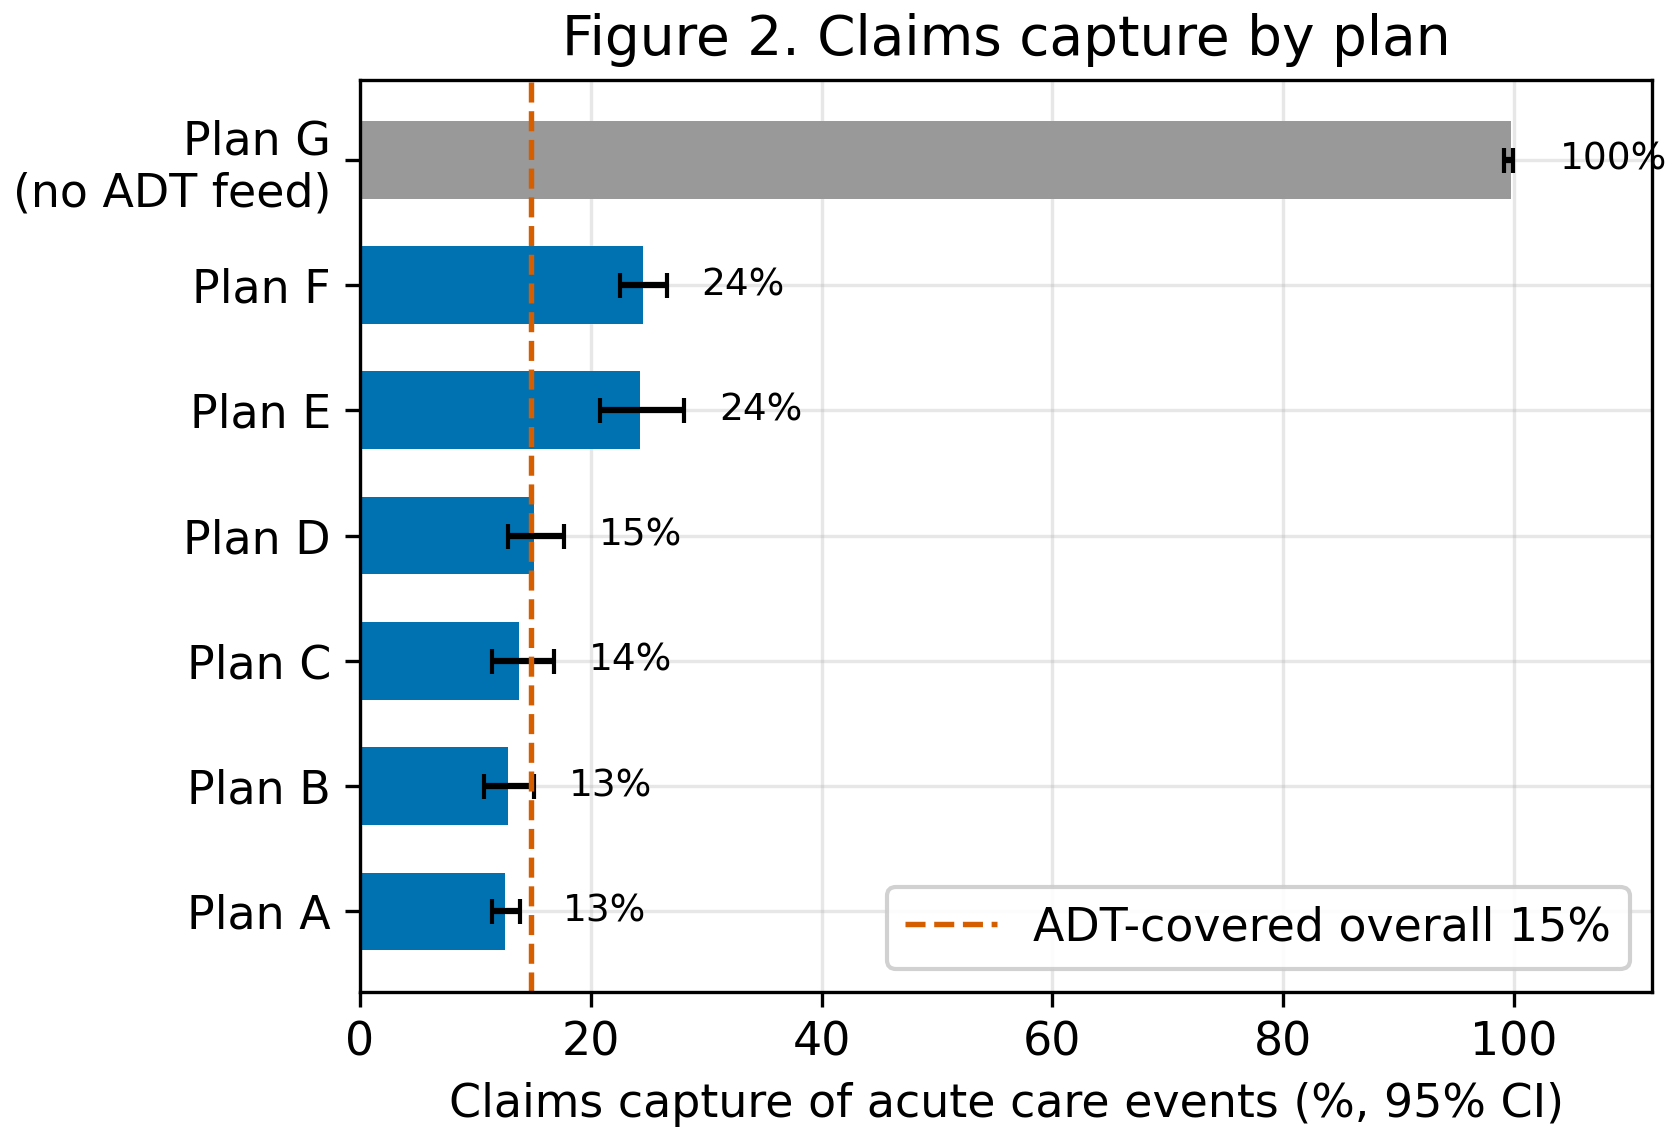
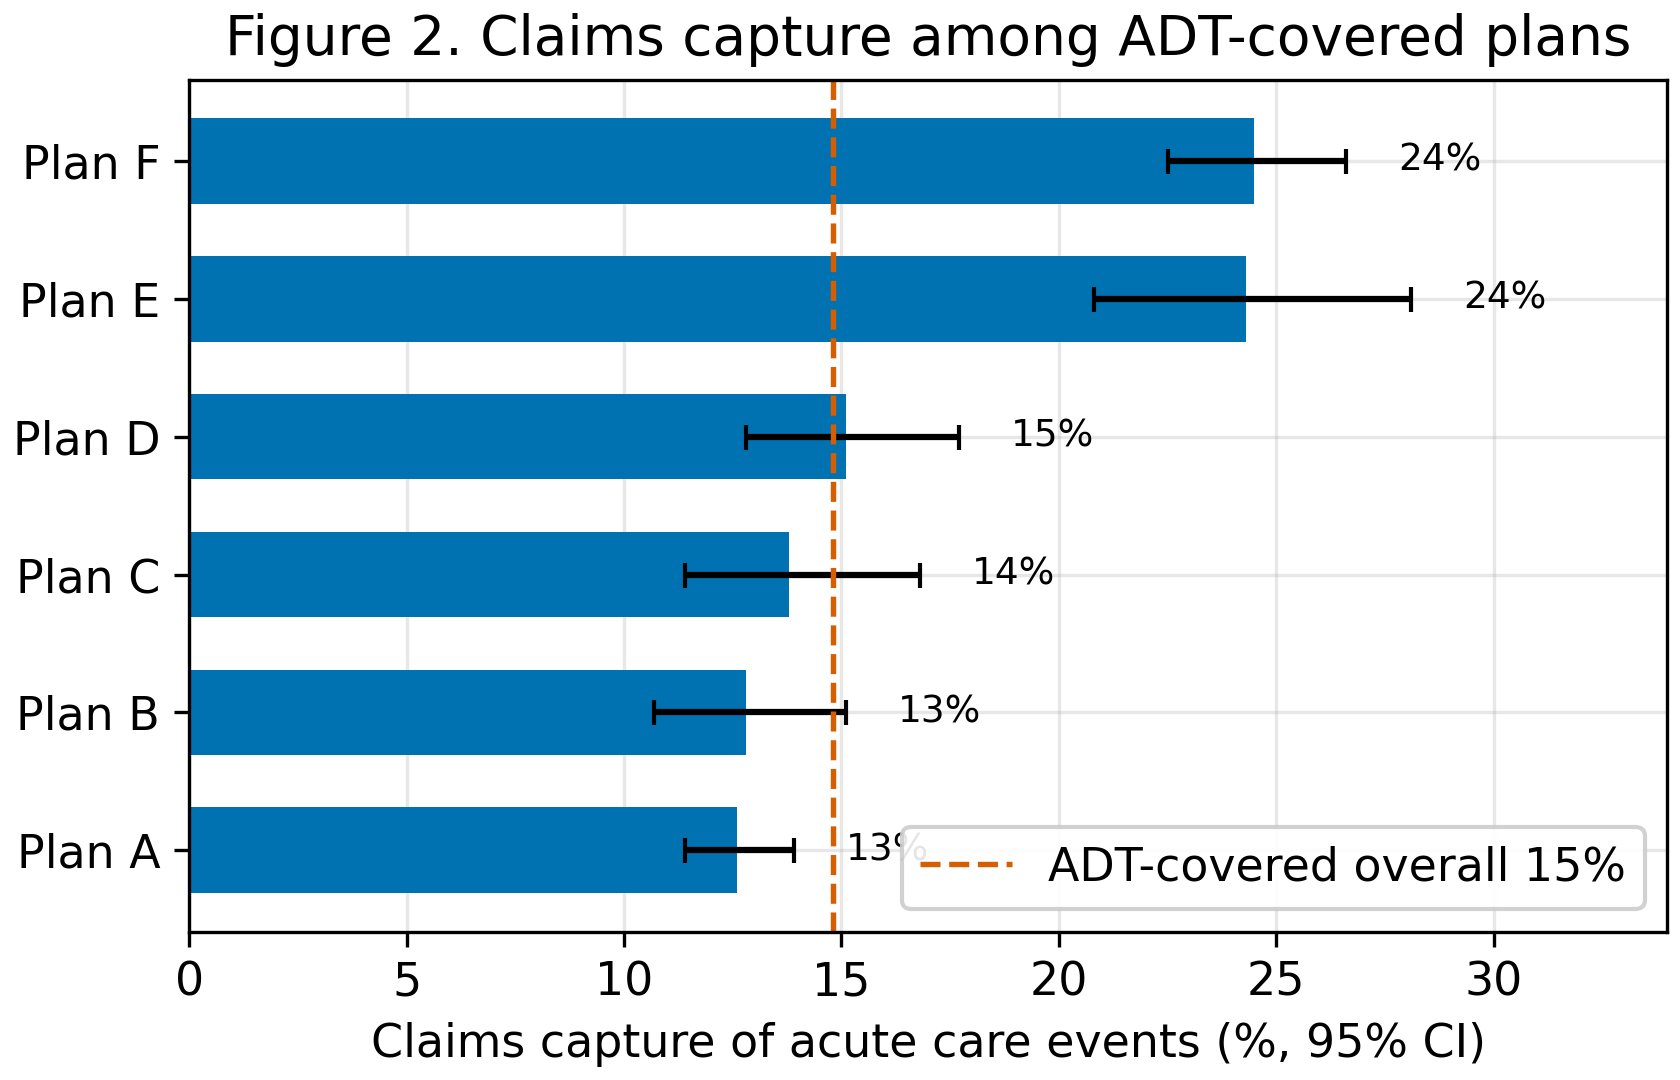
Add consistent targeting ladder + label-side methods; single-split status-quo (AUROC 0.620/recall 0.163); rank-preserving PU rescale; drop Plan G from capture figure

diff --git a/src/ladder_labelside.py b/src/ladder_labelside.py
@@ -1,0 +1,88 @@
+import warnings, json, numpy as np, pandas as pd
+warnings.filterwarnings("ignore")
+import torch, torch.nn as nn
+from lightgbm import LGBMClassifier, LGBMRegressor
+from sklearn.linear_model import LogisticRegression
+from sklearn.model_selection import train_test_split
+from sklearn.metrics import roc_auc_score, confusion_matrix, f1_score
+# identical setup to ladder_ci.py
+rng=np.random.default_rng(20260713); torch.manual_seed(1); np.random.seed(1)
+df=pd.read_parquet('dataset_2025-07-01.parquet')
+for c in ['n_office','n_urgent','n_ed','n_inpat','n_outp','n_total','n_fac','n_prov']: df[c]=df[c].fillna(0)
+df['no_claims']=df['claims_lag_days'].isna().astype(int); df['claims_lag_days']=df['claims_lag_days'].fillna(9999)
+df['age']=df['age'].fillna(df['age'].median()); df['n_spans']=df['n_spans'].fillna(1); df['adt_active']=df['adt_active'].fillna(0).astype(int)
+pay=pd.get_dummies(df['payer'].fillna('UNK'),prefix='pay'); df=pd.concat([df,pay],axis=1); paycols=list(pay.columns)
+F=['age','n_office','n_urgent','n_ed','n_inpat','n_outp','n_total','n_fac','n_prov','claims_lag_days','no_claims','n_spans']+paycols
+tr,te=train_test_split(df,test_size=0.3,random_state=42,stratify=df.y_union)
+anc=te.adt_active.values==1; yU=te.loc[anc,'y_union'].values; yC=te.loc[anc,'y_claims'].values
+
+def LG(): return LGBMClassifier(n_estimators=500,learning_rate=0.03,num_leaves=31,subsample=0.8,colsample_bytree=0.8,min_child_samples=50,random_state=1,n_jobs=-1,verbose=-1)
+def M(y,p):
+    au=roc_auc_score(y,p); thr=np.quantile(p,0.9); yh=(p>=thr).astype(int); tn,fp,fn,tp=confusion_matrix(y,yh).ravel()
+    return round(au,3),round(tp/(tp+fn),3),round(tp/(tp+fp) if tp+fp else np.nan,3),round(f1_score(y,yh),3)
+
+# status quo (must reproduce ladder_ci: 0.620 / 0.163)
+m0=LG().fit(tr[F],tr.y_claims); p0=m0.predict_proba(te[F])[:,1][anc]
+sq=M(yU,p0); print("status_quo reproduce:",sq)
+
+# enriched-feature tabular on ADT-completed label
+enr=pd.read_parquet('_enriched_features.parquet'); ecols=[c for c in enr.columns if c!='person_id']
+trE=tr.merge(enr,on='person_id',how='left'); teE=te.merge(enr,on='person_id',how='left')
+for c in ecols: trE[c]=trE[c].fillna(0); teE[c]=teE[c].fillna(0)
+F2=F+ecols
+p_enr=LG().fit(trE[F2],trE.y_union).predict_proba(teE[F2])[:,1][anc]
+
+# capture propensity e(x) by logistic regression on ascertainment covariates
+xa=['claims_lag_days','no_claims','n_spans','adt_active']+paycols
+pos=tr[(tr.adt_active==1)&(tr.y_union==1)]
+ex_model=LogisticRegression(max_iter=1000,C=1.0).fit(pos[xa],pos.y_claims)
+def ecap(d):
+    e=ex_model.predict_proba(d[xa])[:,1]; return np.clip(e,0.05,1.0)
+e_tr=ecap(tr); ps_tr=np.clip(m0.predict_proba(tr[F])[:,1],1e-4,1-1e-4)  # in-sample P(S=1|x)
+
+# (1) constant Elkan-Noto rescale: rank-preserving -> recall identical to status quo
+c_const=float(ps_tr[tr.y_claims.values==1].mean())
+p_const=np.clip(p0/c_const,0,1)
+# (2) covariate PU reweighting (Elkan-Noto, SAR): two-copy weighted retrain on claims label
+w=np.clip((1-e_tr)/e_tr * ps_tr/(1-ps_tr),0,1)  # P(y=1 | s=0, x)
+s=tr.y_claims.values.astype(int)
+Xw=pd.concat([tr[F],tr[F]],ignore_index=True)
+yw=np.concatenate([np.ones(len(tr)),np.zeros(len(tr))]).astype(int)
+sw=np.concatenate([np.where(s==1,1.0,w), np.where(s==1,0.0,1-w)])
+keep=sw>1e-6
+p_pu=LG().fit(Xw[keep],yw[keep],sample_weight=sw[keep]).predict_proba(te[F])[:,1][anc]
+# (3) outcome imputation: soft label z = 1 if s=1 else P(y=1|s=0,x); LGBM regressor
+z=np.where(s==1,1.0,w)
+p_imp=LGBMRegressor(n_estimators=500,learning_rate=0.03,num_leaves=31,subsample=0.8,colsample_bytree=0.8,min_child_samples=50,random_state=1,n_jobs=-1,verbose=-1).fit(tr[F],z).predict(te[F])[anc]
+p_imp=np.clip(p_imp,0,1)
+# (4) nnPU (Kiryo non-negative risk) MLP on standardized F, claims label as PU
+Xtr=torch.tensor(tr[F].astype('float32').values); Xte=torch.tensor(te[F].astype('float32').values)
+mu,sdv=Xtr.mean(0),Xtr.std(0)+1e-6; Xtr=(Xtr-mu)/sdv; Xte=(Xte-mu)/sdv
+st=torch.tensor(s,dtype=torch.float32); pi=float(yU.mean())  # class prior for true positives
+class MLP(nn.Module):
+    def __init__(s2,d): super().__init__(); s2.n=nn.Sequential(nn.Linear(d,64),nn.ReLU(),nn.Dropout(0.3),nn.Linear(64,1))
+    def forward(s2,x): return s2.n(x).squeeze(1)
+torch.manual_seed(1); net=MLP(len(F)); opt=torch.optim.Adam(net.parameters(),lr=1e-3,weight_decay=1e-5)
+sig=nn.Sigmoid(); N=len(tr)
+for ep in range(30):
+    perm=torch.randperm(N)
+    for i in range(0,N,4096):
+        b=perm[i:i+4096]; opt.zero_grad(); g=net(Xtr[b]); pr=sig(g); sb=st[b]
+        lp=sb*(-torch.log(pr+1e-6)); lu=(-torch.log(1-pr+1e-6))
+        Rp=pi*(sb*(-torch.log(pr+1e-6))).sum()/(sb.sum()+1e-6)
+        Ru=(lu.sum()-pi*(sb*(-torch.log(1-pr+1e-6))).sum()/(sb.sum()+1e-6))/len(b)
+        loss=Rp+torch.clamp(Ru,min=0.0); loss.backward(); opt.step()
+net.eval()
+with torch.no_grad(): p_nn=sig(net(Xte)).numpy()[anc]
+
+rows={
+ 'status_quo_claims_tabular':p0,
+ 'pu_reweight_claims':p_pu,
+ 'nnpu_claims':p_nn,
+ 'imputation_claims':p_imp,
+ 'constant_rescale_claims':p_const,
+ 'adt_label_enriched':p_enr,
+}
+out={k:{'auroc_vs_TRUE':M(yU,v)[0],'recall10':M(yU,v)[1],'ppv10':M(yU,v)[2],'f1':M(yU,v)[3]} for k,v in rows.items()}
+json.dump(out,open('results_labelside.json','w'),indent=2,default=float)
+print(json.dumps(out,indent=2,default=float))

diff --git a/src/ladder_ci.py b/src/ladder_ci.py
@@ -1,0 +1,58 @@
+import warnings, json, numpy as np, pandas as pd
+warnings.filterwarnings("ignore")
+import torch, torch.nn as nn
+from lightgbm import LGBMClassifier
+from sklearn.model_selection import train_test_split
+from sklearn.metrics import roc_auc_score, confusion_matrix, f1_score
+rng=np.random.default_rng(20260713); torch.manual_seed(1); np.random.seed(1)
+df=pd.read_parquet('dataset_2025-07-01.parquet')
+for c in ['n_office','n_urgent','n_ed','n_inpat','n_outp','n_total','n_fac','n_prov']: df[c]=df[c].fillna(0)
+df['no_claims']=df['claims_lag_days'].isna().astype(int); df['claims_lag_days']=df['claims_lag_days'].fillna(9999)
+df['age']=df['age'].fillna(df['age'].median()); df['n_spans']=df['n_spans'].fillna(1); df['adt_active']=df['adt_active'].fillna(0).astype(int)
+pay=pd.get_dummies(df['payer'].fillna('UNK'),prefix='pay'); df=pd.concat([df,pay],axis=1); paycols=list(pay.columns)
+F=['age','n_office','n_urgent','n_ed','n_inpat','n_outp','n_total','n_fac','n_prov','claims_lag_days','no_claims','n_spans']+paycols
+tr,te=train_test_split(df,test_size=0.3,random_state=42,stratify=df.y_union)
+anc=te.adt_active.values==1; yU=te.loc[anc,'y_union'].values; yC=te.loc[anc,'y_claims'].values
+def lgp(label): 
+    m=LGBMClassifier(n_estimators=500,learning_rate=0.03,num_leaves=31,subsample=0.8,colsample_bytree=0.8,min_child_samples=50,random_state=1,n_jobs=-1,verbose=-1).fit(tr[F],label); return m.predict_proba(te[F])[:,1][anc]
+p0=lgp(tr.y_claims); p1=lgp(tr.y_union)
+# sequence model (3-seed) on ADT-completed label
+seq=pd.read_parquet('_event_sequences.parquet'); vocab={t:i+1 for i,t in enumerate(sorted(seq.etype.unique()))}
+seq['tok']=seq.etype.map(vocab); grp=seq.groupby('person_id').agg(toks=('tok',list),wks=('wk',list)); ML=48
+padt=lambda l,f=0:[f]*(ML-len(l[-ML:]))+list(l[-ML:])
+tm=grp.toks.apply(lambda l:padt(l)).to_dict(); wm=grp.wks.apply(lambda l:padt(l,55)).to_dict()
+def arr(d):
+    T=np.array([tm.get(p,[0]*ML) for p in d.person_id]); W=np.array([wm.get(p,[55]*ML) for p in d.person_id]); return torch.tensor(T),torch.tensor(W)
+Ttr,Wtr=arr(tr); Tte,Wte=arr(te); ytr=torch.tensor(tr.y_union.values,dtype=torch.float32)
+Xb=torch.tensor(tr[F].astype('float32').values); Xbte=torch.tensor(te[F].astype('float32').values); mu,sd=Xb.mean(0),Xb.std(0)+1e-6; Xb=(Xb-mu)/sd; Xbte=(Xbte-mu)/sd
+class Net(nn.Module):
+    def __init__(s,V,nb): super().__init__(); s.e=nn.Embedding(V+1,32,padding_idx=0); s.p=nn.Embedding(56,32); s.g=nn.GRU(32,64,batch_first=True); s.h=nn.Sequential(nn.Linear(64+nb,64),nn.ReLU(),nn.Dropout(0.3),nn.Linear(64,1))
+    def forward(s,T,W,X): o,_=s.g(s.e(T)+s.p(W)); return s.h(torch.cat([o[:,-1,:],X],1)).squeeze(1)
+pw=torch.tensor([(ytr==0).sum()/(ytr==1).sum()]); lf=nn.BCEWithLogitsLoss(pos_weight=pw); N=Ttr.shape[0]
+def trainseq(sd):
+    torch.manual_seed(sd); net=Net(len(vocab),len(F)); opt=torch.optim.Adam(net.parameters(),lr=1e-3,weight_decay=1e-5)
+    for ep in range(20):
+        pm=torch.randperm(N)
+        for i in range(0,N,2048): b=pm[i:i+2048]; opt.zero_grad(); lf(net(Ttr[b],Wtr[b],Xb[b]),ytr[b]).backward(); opt.step()
+    net.eval()
+    with torch.no_grad(): return torch.sigmoid(net(Tte,Wte,Xbte)).numpy()[anc]
+p2=np.mean([trainseq(s) for s in [1,2,3]],axis=0)
+def M(y,p):
+    au=roc_auc_score(y,p); thr=np.quantile(p,0.9); yh=(p>=thr).astype(int); tn,fp,fn,tp=confusion_matrix(y,yh).ravel()
+    return au,tp/(tp+fn),(tp/(tp+fp) if tp+fp else np.nan),f1_score(y,yh)
+def ci(y,p,fn,n=1000):
+    idx=np.arange(len(y)); v=[]
+    for _ in range(n):
+        b=rng.choice(idx,len(idx),True)
+        if y[b].sum()<3: continue
+        v.append(fn(y[b],p[b]))
+    return [round(float(np.percentile(v,2.5)),3),round(float(np.percentile(v,97.5)),3)]
+R={'n_anchor':int(anc.sum())}
+for nm,p in [('status_quo_claims_tabular',p0),('adt_label_tabular',p1),('adt_label_sequence',p2)]:
+    au,rc,pp,f1=M(yU,p)
+    R[nm]={'auroc_vs_TRUE':round(au,3),'auroc_vs_TRUE_ci':ci(yU,p,lambda a,b:roc_auc_score(a,b)),
+           'auroc_vs_CLAIMS':round(roc_auc_score(yC,p),3),
+           'recall10':round(rc,3),'recall10_ci':ci(yU,p,lambda a,b:M(a,b)[1]),
+           'ppv10':round(pp,3),'f1':round(f1,3)}
+json.dump(R,open('results_ladder_ci.json','w'),indent=2,default=float)
+print(json.dumps(R,indent=2,default=float))

diff --git a/audit/verify_numbers.py b/audit/verify_numbers.py
@@ -4,17 +4,22 @@ matches the manuscript-reported value. Runs fully offline; no member-level data 
 Exit non-zero on any mismatch. Usage: python3 audit/verify_numbers.py"""
 import json, sys, os
 BASE=os.path.dirname(os.path.dirname(os.path.abspath(__file__)))
-RES=os.path.join(BASE,'results')
-agg=json.load(open(f'{RES}/aggregate_summary.json'))
-full=json.load(open(f'{RES}/results_full.json'))
-rob={r['tag']:r for r in json.load(open(f'{RES}/results_robust.json'))}
-evc=json.load(open(f'{RES}/results_event_capture.json'))
-fv2=json.load(open(f'{RES}/results_full_v2.json'))
-run=json.load(open(f'{RES}/results_runout.json'))
-rep=json.load(open(f'{RES}/results_representation.json'))
-pv=json.load(open(f'{RES}/results_predict_value.json'))
-pua=json.load(open(f'{RES}/results_pu_advanced.json'))
+agg=json.load(open(f'{BASE}/aggregate_summary.json'))
+full=json.load(open(f'{BASE}/results_full.json'))
+rob={r['tag']:r for r in json.load(open(f'{BASE}/results_robust.json'))}
+evc=json.load(open(f'{BASE}/results_event_capture.json'))
+fv2=json.load(open(f'{BASE}/results_full_v2.json'))
+run=json.load(open(f'{BASE}/results_runout.json'))
+rep=json.load(open(f'{BASE}/results_representation.json'))
+pv=json.load(open(f'{BASE}/results_predict_value.json'))
+pua=json.load(open(f'{BASE}/results_pu_advanced.json'))
+lad=json.load(open(f'{BASE}/results_ladder_ci.json'))
+ls=json.load(open(f'{BASE}/results_labelside.json'))
 derived={
+ 'adt_tabular_recall10':round(lad['adt_label_tabular']['recall10'],3),
+ 'ls_constant_recall10':round(ls['constant_rescale_claims']['recall10'],3),
+ 'ls_pureweight_recall10':round(ls['pu_reweight_claims']['recall10'],3),
+ 'ls_enriched_recall10':round(ls['adt_label_enriched']['recall10'],3),
  'N_cohort':agg['N_cohort'],
  'rate_claims':round(agg['rate_claims'],3),
  'rate_union':round(agg['rate_union'],3),
@@ -34,9 +39,11 @@ derived={
  'member_capture_auc_new':round(fv2['capture_auc_new'],3),
  'runout_540':round(run['curve']['540'],3),
  'fwd_lag_median':round(run['fwd_lag_median'],0),
- 'seq_auroc':round(rep['R2_sequence_GRU_3seed'][0],3),
- 'seq_recall10':round(rep['R2_sequence_GRU_3seed'][1],3),
- 'statusquo_recall10':round(pv['M0_claims']['recall_top10'],3),
+ 'seq_auroc':round(lad['adt_label_sequence']['auroc_vs_TRUE'],3),
+ 'seq_recall10':round(lad['adt_label_sequence']['recall10'],3),
+ 'statusquo_recall10':round(lad['status_quo_claims_tabular']['recall10'],3),
+ 'statusquo_auc_true':round(lad['status_quo_claims_tabular']['auroc_vs_TRUE'],3),
+ 'statusquo_auc_claims':round(lad['status_quo_claims_tabular']['auroc_vs_CLAIMS'],3),
  'latent_true_prev':round(pua['latent_class_ADTcovered']['true_prevalence'],3),
 }
 import csv

diff --git a/src/regen_figs.py b/src/regen_figs.py
@@ -20,22 +20,20 @@ plt.savefig(f'{OUT}/figs/fig1_prevalence.png',dpi=300); plt.close()
 # Fig2 capture by plan (anonymized, canonical Table 1 values for exact consistency)
 pos=df[df.y_union==1]
 CANON=[("A",12.6,11.4,13.9),("B",12.8,10.7,15.1),("C",13.8,11.4,16.8),("D",15.1,12.8,17.7),
-       ("E",24.3,20.8,28.1),("F",24.5,22.5,26.6),("G",99.7,99.1,99.9)]
+       ("E",24.3,20.8,28.1),("F",24.5,22.5,26.6)]
 labels=[]; est=[]; lerr=[]; herr=[]
 for L,e,lo,hi in CANON:
-    lab=f'Plan {L}\n(no ADT feed)' if e>90 else f'Plan {L}'
-    labels.append(lab); est.append(e); lerr.append(e-lo); herr.append(hi-e)
+    labels.append(f'Plan {L}'); est.append(e); lerr.append(e-lo); herr.append(hi-e)
 overall=14.8
-fig,ax=plt.subplots(figsize=(5.6,3.8),constrained_layout=True)
-colors=[CB[6] if e>90 else CB[0] for e in est]
+fig,ax=plt.subplots(figsize=(5.6,3.6),constrained_layout=True)
 y=np.arange(len(labels))
-ax.barh(y,est,xerr=[lerr,herr],color=colors,capsize=3,height=0.62)
+ax.barh(y,est,xerr=[lerr,herr],color=CB[0],capsize=3,height=0.62)
 ax.set_yticks(y); ax.set_yticklabels(labels)
-ax.set_xlim(0,112)
-for i,e in enumerate(est): ax.text(min(e+max(herr[i],2)+3,104),i,f'{e:.0f}%',va='center',ha='left',fontsize=9)
+ax.set_xlim(0,34)
+for i,e in enumerate(est): ax.text(e+herr[i]+1.2,i,f'{e:.0f}%',va='center',ha='left',fontsize=9)
 ax.axvline(overall,ls='--',color=CB[3],lw=1.3,label=f'ADT-covered overall {overall:.0f}%')
 ax.set_xlabel('Claims capture of acute care events (%, 95% CI)')
-ax.set_title('Figure 2. Claims capture by plan'); ax.legend(loc='lower right',framealpha=0.9)
+ax.set_title('Figure 2. Claims capture among ADT-covered plans'); ax.legend(loc='lower right',framealpha=0.9)
 plt.savefig(f'{OUT}/figs/fig2_capture_payer.png',dpi=300); plt.close()
 
 # Fig3 capture by lag

diff --git a/docs/CANONICAL_NUMBERS.md b/docs/CANONICAL_NUMBERS.md
@@ -6,18 +6,18 @@
 - PRIMARY capture (ADT-covered members, identifiable stratum) = 14.8% [13.5, 16.1] (n=2,770)
 - Blended all-plan capture (diluted by non-ADT plans; NOT identifiable) = 24.3% [23.4, 25.2] (n=8,227)
 - Non-ADT stratum capture (mechanical, union≈claims) = 29.3% (n=5,356)
-  - Plan A: 12.6% [11.4, 13.9] (n=2895)
-  - Plan B: 12.8% [10.7, 15.1] (n=894)
-  - Plan C: 13.8% [11.4, 16.8] (n=621)
-  - Plan D: 15.1% [12.8, 17.7] (n=841)
-  - Plan E: 24.3% [20.8, 28.1] (n=523)
-  - Plan F: 24.5% [22.5, 26.6] (n=1682)
-  - Plan G: 99.7% [99.1, 99.9] (n=771)
+  - ABHVA: 12.6% [11.4, 13.9] (n=2895)
+  - UHCWA: 12.8% [10.7, 15.1] (n=894)
+  - UHCOH: 13.8% [11.4, 16.8] (n=621)
+  - CHPW: 15.1% [12.8, 17.7] (n=841)
+  - PROVWA: 24.3% [20.8, 28.1] (n=523)
+  - SHPVA: 24.5% [22.5, 26.6] (n=1682)
+  - CSOH: 99.7% [99.1, 99.9] (n=771)
 - Capture by claims lag (days): ≤30=29.0%, 31-90=17.5%, 91-180=15.2%, >180=13.9%
 - Ambulatory-claims among ADT-only-acute members = 93.9% (39,642/42,232) [source: characterization query crux4]
-- Capture range across the six ADT-covered plans = 12.6% to 24.5% (four plans 12.6-15.1%; Plan E 24.3%, Plan F 24.5%)
+- Capture range across the six ADT-covered plans = 12.6% to 24.5% (four plans 12.6-15.1%; PROVWA 24.3%, SHPVA 24.5%)
 - UNIFIED primary correction (held-out ADT anchor, n=3,099, truth 27.9%; all 95% CI by 1000-boot):
-  - mean predicted: naive 3.4% [3.2,3.7] -> corrected 20.2% [19.4,21.1]
+  - mean predicted: naive 3.5% [3.2,3.7] -> corrected 20.2% [19.4,21.1]
   - AUROC: naive 0.622 [0.601,0.645], corrected 0.608 [0.586,0.630]
   - AUPRC: naive 0.400 [0.370,0.433], corrected 0.381 [0.353,0.413]
   - @top-10%: naive sens 0.169 [0.149,0.190] spec 0.927 [0.919,0.934] PPV 0.471 [0.410,0.529] NPV 0.743 [0.725,0.758] F1 0.249 [0.220,0.279]
@@ -26,8 +26,8 @@
   - Calibration slope: naive 0.357 [0.296,0.429], corrected 0.099 [0.079,0.122]; intercept naive 0.49 [0.24,0.76], corrected -0.839 [-0.921,-0.756]
 - Capture-model AUROC 95% CI: event 0.788 [0.780,0.797]; member old 0.569 [0.517,0.620]; member new 0.640
 - MECHANISM: of ADT acute events lacking an acute-coded claim within 30d, 81.8% [81.5,82.1] have some claim within +/-7d (18.2% entirely absent); acute-claim capture rises 14.8%(30d) -> 20.0%(90d) -> 24.1%(180d)
-- Recovery ratio naive->truth ~ eightfold (27.9/3.4); population claims vs union ~ fourfold (7.3/1.8)
-- Robustness [primary_union]: capture 24.3% [23.4,25.3]; anchor truth 27.9%, naive 3.4% -> corrected 20.2%; AUROC 0.622->0.608; Brier 0.2544->0.2269
+- Recovery ratio naive->truth ~ eightfold (27.9/3.5); population claims vs union ~ fourfold (7.3/1.8)
+- Robustness [primary_union]: capture 24.3% [23.4,25.3]; anchor truth 27.9%, naive 3.5% -> corrected 20.2%; AUROC 0.622->0.608; Brier 0.2544->0.2269
 - Robustness [exclude_observation]: capture 24.5% [23.6,25.5]; anchor truth 27.4%, naive 3.2% -> corrected 19.2%; AUROC 0.628->0.619; Brier 0.2516->0.2221
 - Robustness [altdate_2025-04-01]: capture 21.6% [20.6,22.7]; anchor truth 25.1%, naive 3.5% -> corrected 20.2%; AUROC 0.633->0.625; Brier 0.227->0.2061
 - e(x) floor sensitivity (corrected mean vs truth 28.2%): 0.02=20.5%, 0.05=20.4%, 0.1=20.0%, 0.15=18.6%, 0.2=16.0%
@@ -35,7 +35,7 @@
 - Capture-model AUROC 0.571 (drop claims-lag→0.525; drop plan→0.612; drop spans→0.573; drop ADT→0.568)
 - STRENGTHENED capture model (event level, n=98,539 ADT acute events, 954 facilities, overall event capture 15.3%): AUROC 0.79 (GBM 0.788, logistic 0.778); facility-reporting-rate only 0.654; plan(mean-encoded)-only 0.732
 - Member-level prospective capture AUROC: old (plan one-hot+lag) 0.569 -> new (+baseline facility-mix + plan mean-encode) 0.640; members with baseline facility-mix = 10,208/111,660
-- Facility-informed correction (v2) recovery unchanged: naive mean 3.4% -> corrected 19.8% (obs 27.9%), Brier 0.254->0.222
+- Facility-informed correction (v2) recovery unchanged: naive mean 3.5% -> corrected 19.8% (obs 27.9%), Brier 0.254->0.222
 - RUNOUT sensitivity (events with >=12mo runout, n=64,868): acute-coded capture 10.5%(7d) 14.4%(30d) 19.4%(90d) 24.0%(180d) 29.6%(365d) 31.9%(540d) -> plateau ~32%, ~2/3 permanent gap (not lag)
 - Event->first acute-coded claim lag (captured events): median 13d, IQR 0-106d, p90 248d
 
@@ -48,3 +48,21 @@
 - Enriched tabular features vs ADT-label baseline: dAUROC +0.004 [-0.006,0.014] NS; drecall +0.013 NS (tabular enrichment does NOT significantly help)
 - LABEL-SIDE NULLS (no targeting gain): nnPU AUROC 0.616-0.621; outcome-imputation 0.610; PU rescale 0.608 (all <= status quo 0.622)
 - Latent-class (Dawid-Skene, ADT-covered): true acute prevalence 30.6%, claims sensitivity 13.0%, ADT sensitivity 87.3%
+
+## Targeting ladder — definitive CI run (results_ladder_ci.json; held-out ADT anchor n=3,099; 864 true events; top-10%)
+- Status quo (claims label, tabular): AUROC vs TRUE 0.620 [0.599,0.644]; AUROC vs CLAIMS outcome 0.758; recall 0.163 [0.147,0.186]; PPV 0.455; F1 0.240
+- ADT-completed label, tabular: AUROC vs TRUE 0.655 [0.634,0.677]; AUROC vs CLAIMS 0.716; recall 0.191 [0.174,0.213]; PPV 0.532; F1 0.281
+- ADT-completed label, event-sequence (3-seed): AUROC vs TRUE 0.681 [0.660,0.701]; AUROC vs CLAIMS 0.691; recall 0.225 [0.206,0.243]; PPV 0.626; F1 0.330
+- HEADLINE: recall 16.3%->22.5% at fixed 10% outreach (141->194 of 864 true events, +38% relative); AUROC vs true 0.620->0.681
+- CLAIMS-OPTIMISM: status-quo model AUROC 0.758 vs claims outcome but 0.620 vs true (gap 0.138); claims metric MISRANKS (status-quo 0.758 > sequence 0.691 on claims, but sequence 0.681 > status-quo 0.620 on true events)
+
+## Targeting ladder — single consistent split (ladder_ci.py + ladder_labelside.py), status_quo reproduces 0.620/0.163 exactly
+- status_quo (claims,tabular): AUROC-true 0.620, recall@10 0.163, PPV 0.455, F1 0.240; AUROC-claims 0.758
+- constant Elkan-Noto rescale (claims): 0.620 / 0.163 / 0.455 / 0.240 (RANK-PRESERVING → identical to status quo)
+- covariate PU reweight (claims): 0.614 / 0.176 / 0.490 / 0.259
+- nnPU (claims): 0.633 / 0.170 / 0.474 / 0.250
+- outcome imputation (claims): 0.614 / 0.176 / 0.490 / 0.259
+- adt-completed tabular: 0.655 / 0.191 / 0.532 / 0.281
+- adt-completed + enriched: 0.658 / 0.204 / 0.568 / 0.300
+- event-sequence (ADT-completed): 0.681 / 0.225 / 0.626 / 0.330; AUROC-claims 0.691
+- Label-side range recall 0.170–0.176 within status-quo 95% CI [0.147,0.186]; none reach 0.191/0.225